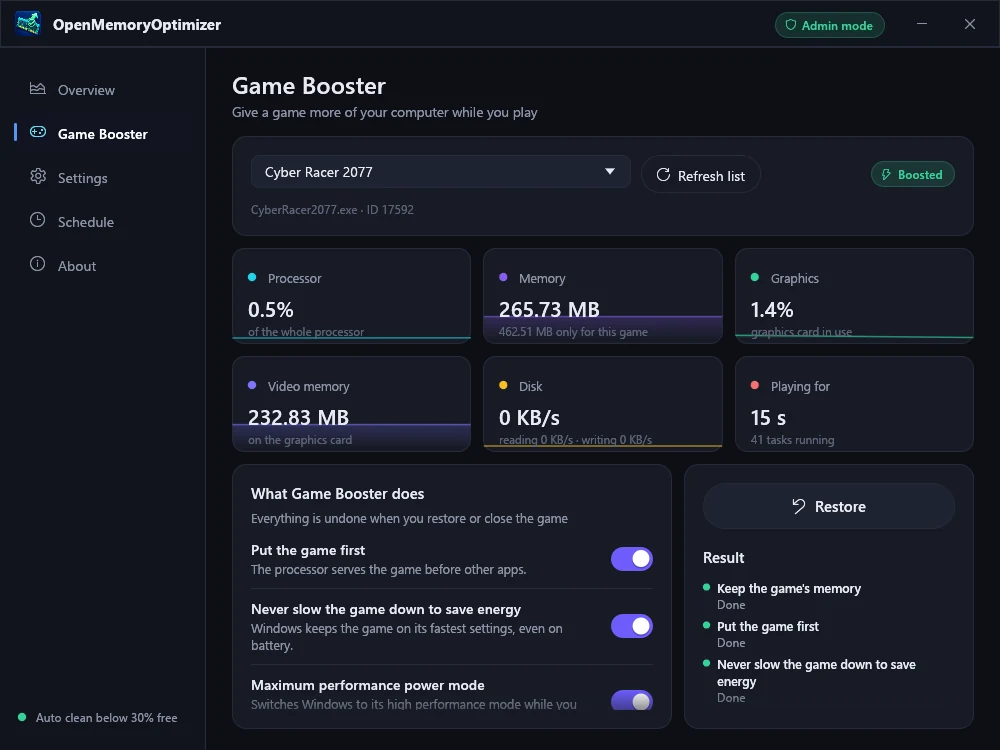
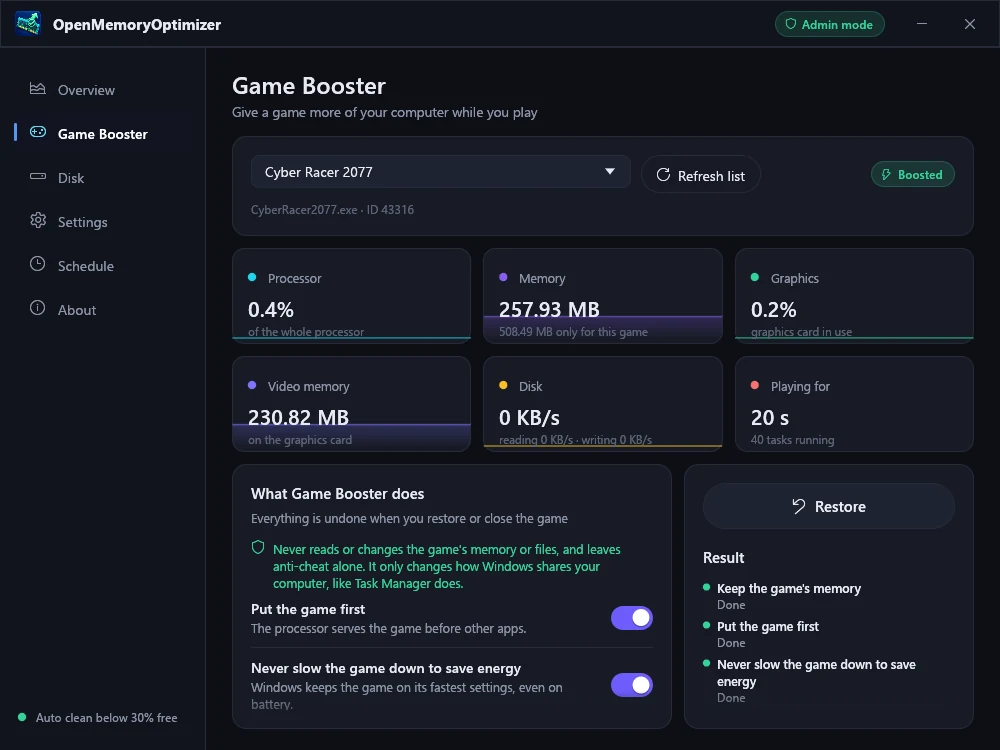
feat(site): Disk section and screenshot, features in sync with the app
- New Disk section, slide and FAQ entry; the safety answer no longer
  says the app never deletes files.
- Game Booster text lists the optional techniques and the anti-cheat
  guarantee.
- All screenshots retaken with the Disk entry in the sidebar.
- README and llms.txt list the Disk features.

diff --git a/site/index.html b/site/index.html
@@ -8,15 +8,15 @@
 <head>
   <meta charset="utf-8">
   <meta name="viewport" content="width=device-width, initial-scale=1">
-  <title>Open Memory Optimizer – Free, open-source memory optimizer for Windows</title>
-  <meta name="description" content="Open Memory Optimizer is a free, open-source RAM cleaner for Windows 10 and 11, written in Rust. Free up memory in one click, automatically when memory runs low, or on a schedule. No ads, no tracking.">
+  <title>Open Memory Optimizer – Free, open-source memory and disk optimizer for Windows</title>
+  <meta name="description" content="Open Memory Optimizer is a free, open-source RAM cleaner and disk cleanup tool for Windows 10 and 11, written in Rust. Free up memory in one click, find what fills your drives, remove junk files and optimize your SSD or hard disk. No ads, no tracking.">
   <link rel="canonical" href="https://luciancaetano.github.io/open-memory-optimizer/">
   <link rel="alternate" type="text/plain" title="llms.txt" href="https://luciancaetano.github.io/open-memory-optimizer/llms.txt">
   <meta property="og:type" content="website">
   <meta property="og:site_name" content="Open Memory Optimizer">
   <meta property="og:url" content="https://luciancaetano.github.io/open-memory-optimizer/">
   <meta property="og:title" content="Open Memory Optimizer – Free memory optimizer for Windows">
-  <meta property="og:description" content="A free, open-source RAM cleaner for Windows 10 and 11, written in Rust. One-click, automatic and scheduled cleanups.">
+  <meta property="og:description" content="A free, open-source RAM cleaner and disk cleanup tool for Windows 10 and 11, written in Rust. One-click, automatic and scheduled memory cleanups, a disk space analyzer and junk file cleanup.">
   <meta property="og:image" content="https://luciancaetano.github.io/open-memory-optimizer/icon.png">
   <meta property="og:image:alt" content="Open Memory Optimizer icon">
   <meta name="twitter:card" content="summary">
@@ -31,10 +31,10 @@
         "@id": "https://luciancaetano.github.io/open-memory-optimizer/#app",
         "name": "Open Memory Optimizer",
         "alternateName": "OpenMemoryOptimizer",
-        "description": "A free, open-source memory (RAM) optimizer for Windows 10 and 11, written in Rust. It frees memory in one click, automatically when memory runs low or on a timer, and on a schedule.",
+        "description": "A free, open-source memory (RAM) and disk optimizer for Windows 10 and 11, written in Rust. It frees memory in one click, automatically when memory runs low or on a timer, and on a schedule. It also shows what fills each drive, removes junk files and optimizes SSDs and hard disks.",
         "url": "https://luciancaetano.github.io/open-memory-optimizer/",
         "applicationCategory": "UtilitiesApplication",
-        "applicationSubCategory": "Memory optimizer",
+        "applicationSubCategory": "Memory and disk optimizer",
         "operatingSystem": "Windows 10, Windows 11 (64-bit)",
         "inLanguage": ["en", "pt-BR"],
         "isAccessibleForFree": true,
@@ -51,6 +51,9 @@
           "Automatic cleanup when memory runs low or on a timer",
           "Scheduled cleanups: daily, weekly, monthly, at sign-in or when idle",
           "Game Booster: live stats for a chosen game and one-click priority, undone when it closes",
+          "Disk analyzer: the biggest folders and files on any drive, read only",
+          "Disk cleanup: temporary files, browser cache, Windows Update leftovers, Recycle Bin and more",
+          "Drive optimization: TRIM for SSDs, defragmentation for hard disks, smaller hibernate file",
           "Runs in the system tray",
           "Installer or portable zip",
           "English and Brazilian Portuguese interface"
@@ -75,12 +78,17 @@
           {
             "@type": "Question",
             "name": "Is Open Memory Optimizer safe to use?",
-            "acceptedAnswer": { "@type": "Answer", "text": "It only uses memory-management features that Windows already provides. It does not close apps or delete files, collects no data and never connects to the internet. The full source code is public, and each release publishes SHA-256 checksums so you can verify the download." }
+            "acceptedAnswer": { "@type": "Answer", "text": "Memory cleanups only use memory-management features that Windows already provides and never close apps. Disk cleanup removes only junk you choose, such as old temporary files and caches, and the disk analyzer never deletes anything. The app collects no data and never connects to the internet. The full source code is public, and each release publishes SHA-256 checksums so you can verify the download." }
+          },
+          {
+            "@type": "Question",
+            "name": "Does the disk cleanup delete my files?",
+            "acceptedAnswer": { "@type": "Answer", "text": "No. It only removes files that Windows and apps make again when needed: temporary files older than one day, browser caches (not history, passwords or sign-ins), crash reports, Windows Update leftovers and similar junk. Windows parts are removed with the same cleanup tools Windows' own Disk Cleanup uses. Items that cannot be undone, like the Recycle Bin or a previous Windows installation, are off by default and marked. The disk analyzer only lists folders and files and can open them in File Explorer; it cannot delete anything." }
           },
           {
             "@type": "Question",
             "name": "Why does it ask for administrator rights?",
-            "acceptedAnswer": { "@type": "Answer", "text": "Windows only lets programs with administrator rights free memory held by other apps and clear cached memory. Without those rights a memory optimizer can do very little." }
+            "acceptedAnswer": { "@type": "Answer", "text": "Windows only lets programs with administrator rights free memory held by other apps, clear cached memory, remove Windows Update leftovers and optimize drives. Without those rights the app can do very little." }
           },
           {
             "@type": "Question",
@@ -463,7 +471,8 @@
       <p class="lead">
         Open Memory Optimizer is a free, open-source memory (RAM) optimizer for Windows 10 and 11.
         It frees memory that open apps and Windows are holding but not using, with one click,
-        automatically when memory runs low, or on a schedule. It is written in Rust.
+        automatically when memory runs low, or on a schedule. It also shows what fills your drives,
+        cleans up junk files and keeps your SSD or hard disk optimized. It is written in Rust.
       </p>
       <ul class="tags">
         <li><b>Rust</b> native</li>
@@ -486,16 +495,19 @@
     <section class="shot wrap" id="screenshots" aria-roledescription="carousel" aria-label="Screenshots">
       <div class="slider">
         <div class="slides" aria-live="off">
-          <figure class="slide is-active" aria-roledescription="slide" aria-label="1 of 4: Overview">
+          <figure class="slide is-active" aria-roledescription="slide" aria-label="1 of 5: Overview">
             <img src="screenshot.webp" alt="The Open Memory Optimizer window showing memory usage and the result of a cleanup" width="1000" height="750">
           </figure>
-          <figure class="slide" aria-roledescription="slide" aria-label="2 of 4: Game Booster" aria-hidden="true">
+          <figure class="slide" aria-roledescription="slide" aria-label="2 of 5: Game Booster" aria-hidden="true">
             <img src="game-booster.webp" alt="The Game Booster page showing a boosted game with live processor, memory, graphics, video memory and disk use" width="1000" height="750" loading="lazy">
           </figure>
-          <figure class="slide" aria-roledescription="slide" aria-label="3 of 4: Settings" aria-hidden="true">
+          <figure class="slide" aria-roledescription="slide" aria-label="3 of 5: Disk" aria-hidden="true">
+            <img src="disk.webp" alt="The Disk page showing the drives, the biggest folders of drive C: and how much of it is used" width="1000" height="750" loading="lazy">
+          </figure>
+          <figure class="slide" aria-roledescription="slide" aria-label="4 of 5: Settings" aria-hidden="true">
             <img src="settings.webp" alt="The Settings page with language, what to clean and automatic cleanup options" width="1000" height="750" loading="lazy">
           </figure>
-          <figure class="slide" aria-roledescription="slide" aria-label="4 of 4: Schedule" aria-hidden="true">
+          <figure class="slide" aria-roledescription="slide" aria-label="5 of 5: Schedule" aria-hidden="true">
             <img src="schedule.webp" alt="The Schedule page for daily, weekly, monthly, idle or sign-in cleanups" width="1000" height="750" loading="lazy">
           </figure>
         </div>
@@ -509,6 +521,7 @@
       <div class="slider-nav">
         <button class="dot is-active" type="button" aria-label="Show Overview" aria-current="true">Overview</button>
         <button class="dot" type="button" aria-label="Show Game Booster">Game Booster</button>
+        <button class="dot" type="button" aria-label="Show Disk">Disk</button>
         <button class="dot" type="button" aria-label="Show Settings">Settings</button>
         <button class="dot" type="button" aria-label="Show Schedule">Schedule</button>
       </div>
@@ -529,7 +542,7 @@
             <span class="icon green"><svg viewBox="0 0 24 24" fill="none" stroke="currentColor" stroke-width="2" stroke-linecap="round" stroke-linejoin="round" aria-hidden="true"><path d="M12 3 4 6v6c0 4.5 3.4 8.3 8 9 4.6-.7 8-4.5 8-9V6z"/><path d="m9 12 2 2 4-4"/></svg></span>
             Safe
           </h3>
-          <p>Rust prevents whole classes of memory bugs. The app has no ads and no tracking, and it never connects to the internet. It only uses the cleanup tools Windows already provides.</p>
+          <p>Rust prevents whole classes of memory bugs. The app has no ads and no tracking, and it never connects to the internet. It relies on the tools Windows already provides, and disk cleanup only touches junk you choose.</p>
         </article>
         <article class="card">
           <h3>
@@ -549,20 +562,50 @@
         <li>Automatic cleanup when memory runs low or on a timer</li>
         <li>Scheduled cleanups: daily, weekly, monthly, at sign-in or when idle</li>
         <li>Game Booster: gives the game you are playing priority</li>
+        <li>Disk analyzer: the biggest folders and files on any drive</li>
+        <li>Disk cleanup: temporary files, caches, update leftovers and more</li>
+        <li>Drive optimization for SSDs and hard disks</li>
+        <li>Shows exactly how much memory or space was freed</li>
         <li>Runs quietly in the system tray</li>
         <li>Installer or portable zip, your choice</li>
         <li>In English and Portuguese (Brazil)</li>
       </ul>
     </section>
 
-    <section class="wrap" id="game-booster">
+    <section class="how wrap" id="game-booster">
       <h2>Game Booster</h2>
       <p class="section-lead">
         Pick the game you are playing and see how much processor, memory, graphics and disk it uses,
         live. One click puts it first: higher priority, no energy saving slowdowns, maximum performance
-        power mode and more free memory. Everything goes back to normal when you restore or close the game.
+        power mode and more free memory. If you want, it also calms down background apps and keeps the
+        game on the fast cores of hybrid processors. Automatic cleanups leave a boosted game alone.
+        Everything goes back to normal when you restore or close the game.
+      </p>
+      <p class="section-lead">
+        It never reads or changes the game's memory or files, and it leaves anti-cheat software alone:
+        it only changes how Windows shares your computer, like Task Manager does.
       </p>
       <p class="section-lead"><a href="#screenshots" data-slide="1">See the Game Booster screen</a></p>
+    </section>
+
+    <section class="how wrap" id="disk">
+      <h2>Disk</h2>
+      <p class="section-lead">
+        Pick a drive to see what fills it, free up space and keep it fast.
+      </p>
+      <ul class="section-lead">
+        <li><b>Analyze</b>: lists the biggest folders, the biggest files and the space each kind of file
+          takes. It only reads. The one thing you can do with a folder is open it in File Explorer.</li>
+        <li><b>Clean up</b>: shows how much each item frees before you clean, then removes old temporary
+          files, browser caches (history, passwords and sign-ins stay), crash reports, Windows Update
+          leftovers, update downloads, picture previews and more. Windows parts go through the same tools
+          as Windows' own Disk Cleanup. Items that cannot be undone, such as the Recycle Bin or a previous
+          Windows installation, are off until you turn them on.</li>
+        <li><b>Optimize</b>: lets Windows send TRIM to an SSD or defragment a hard disk, turns TRIM
+          notifications back on if they are off, makes the hibernate file smaller and removes old
+          Windows parts that updates replaced.</li>
+      </ul>
+      <p class="section-lead"><a href="#screenshots" data-slide="2">See the Disk screen</a></p>
     </section>
 
     <section class="how wrap" id="how-it-works">
@@ -593,11 +636,15 @@
         </details>
         <details>
           <summary>Is Open Memory Optimizer safe to use?</summary>
-          <p>It only uses memory-management features that Windows already provides. It does not close apps or delete files, collects no data and never connects to the internet. The full source code is public, and each release publishes SHA-256 checksums so you can verify the download.</p>
+          <p>Memory cleanups only use memory-management features that Windows already provides and never close apps. Disk cleanup removes only junk you choose, such as old temporary files and caches, and the disk analyzer never deletes anything. The app collects no data and never connects to the internet. The full source code is public, and each release publishes SHA-256 checksums so you can verify the download.</p>
+        </details>
+        <details>
+          <summary>Does the disk cleanup delete my files?</summary>
+          <p>No. It only removes files that Windows and apps make again when needed: temporary files older than one day, browser caches (not history, passwords or sign-ins), crash reports, Windows Update leftovers and similar junk. Windows parts are removed with the same cleanup tools Windows' own Disk Cleanup uses. Items that cannot be undone, like the Recycle Bin or a previous Windows installation, are off by default and marked. The disk analyzer only lists folders and files and can open them in File Explorer; it cannot delete anything.</p>
         </details>
         <details>
           <summary>Why does it ask for administrator rights?</summary>
-          <p>Windows only lets programs with administrator rights free memory held by other apps and clear cached memory. Without those rights a memory optimizer can do very little.</p>
+          <p>Windows only lets programs with administrator rights free memory held by other apps, clear cached memory, remove Windows Update leftovers and optimize drives. Without those rights the app can do very little.</p>
         </details>
         <details>
           <summary>Will freeing memory make my PC faster?</summary>

diff --git a/README.md b/README.md
@@ -28,9 +28,12 @@ Requires Windows 10 or 11 (64-bit).
 - Live view of memory usage
 - One-click cleanup
 - Automatic cleanup when memory runs low or on a timer
-- Scheduled cleanups (daily, weekly, at sign-in…)
+- Scheduled cleanups (daily, weekly, monthly, at sign-in or when idle)
 - Game Booster: pick a running game, watch its processor, memory, graphics and disk use, and give it
   priority with one click (undone when you restore or close the game)
+- Disk: pick a drive to see its biggest folders and files (read only), clean up junk files
+  (temporary files, browser caches, Windows Update leftovers, Recycle Bin…) and optimize it
+  (TRIM for SSDs, defragmentation for hard disks, smaller hibernate file)
 - Runs quietly in the system tray
 - English and Portuguese (Brazil)
 
